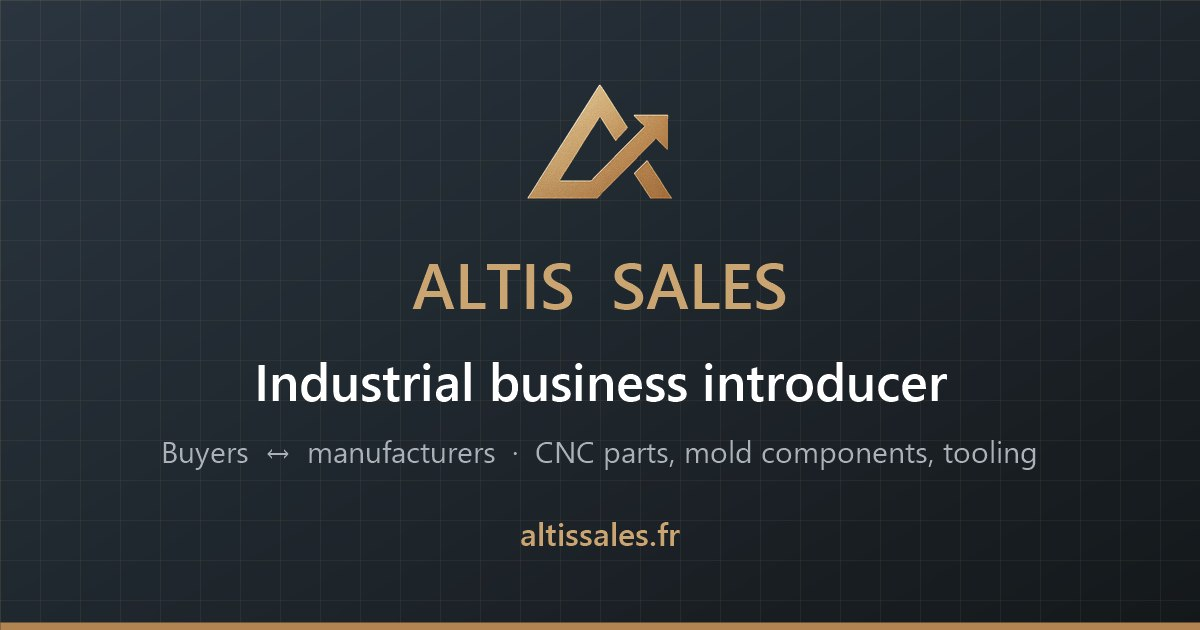
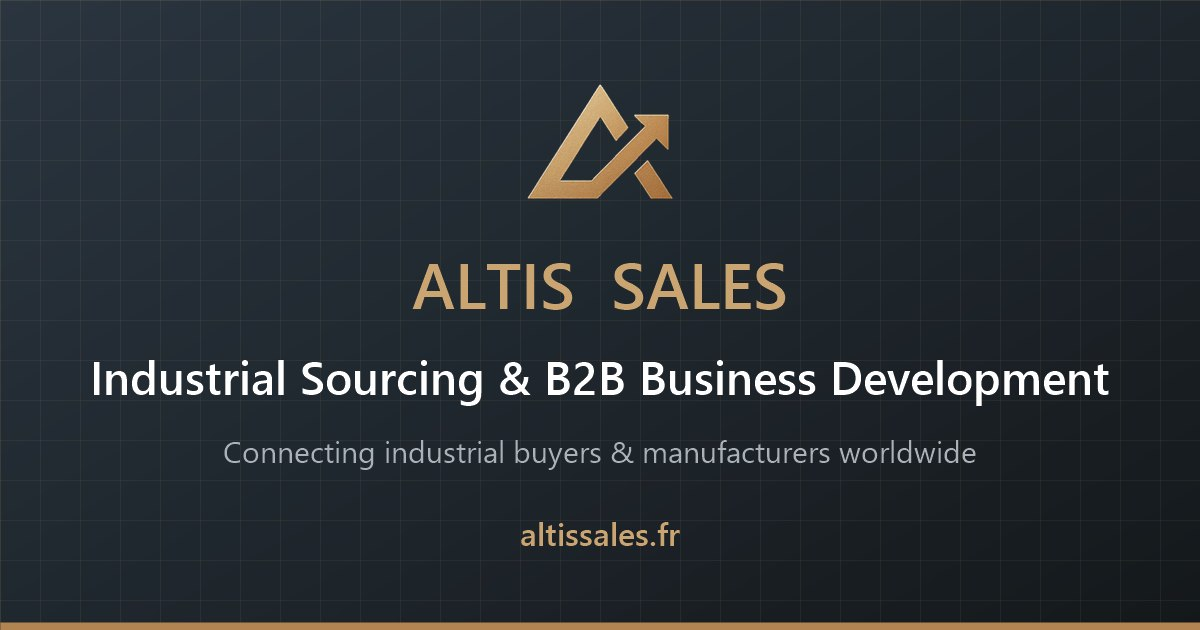
Positioning & SEO update (industrial sourcing & B2B business development), buyer/manufacturer view switch

diff --git a/index.html b/index.html
@@ -7,10 +7,10 @@
 <head>
   <meta charset="utf-8">
   <meta name="viewport" content="width=device-width, initial-scale=1">
-  <title>ALTIS SALES — Industrial business introducer: buyers and manufacturers of CNC parts, mold components, tooling</title>
-  <meta name="description" content="ALTIS SALES is an independent industrial business introducer. We connect European buyers with qualified manufacturers of CNC machined parts, mold components and tooling, and mediate until they agree.">
-  <meta property="og:title" content="ALTIS SALES — Connecting industrial buyers with the right manufacturers">
-  <meta property="og:description" content="Independent business introducer for CNC parts, mold components and tooling: we find, check and introduce manufacturers, then mediate until you agree.">
+  <title>ALTIS SALES | Industrial Sourcing &amp; B2B Business Development</title>
+  <meta name="description" content="ALTIS SALES connects industrial buyers with qualified manufacturers and helps suppliers develop business opportunities across Europe and beyond.">
+  <meta property="og:title" content="ALTIS SALES | Industrial Sourcing &amp; B2B Business Development">
+  <meta property="og:description" content="Independent B2B intermediary: industrial sourcing for buyers (CNC machining, precision manufacturing, mold components, tooling) and B2B business development for manufacturers in Europe and beyond.">
   <meta property="og:image" content="https://altissales.fr/assets/og-image.jpg">
   <meta property="og:image:width" content="1200">
   <meta property="og:image:height" content="630">
@@ -20,7 +20,7 @@
   <meta name="theme-color" content="#14181b">
   <link rel="icon" type="image/png" href="assets/logo-mark.png">
   <link rel="preload" href="assets/fonts/ibm-plex-sans-latin.woff2" as="font" type="font/woff2" crossorigin>
-  <link rel="stylesheet" href="assets/style.css?v=43">
+  <link rel="stylesheet" href="assets/style.css?v=46">
   <script>document.documentElement.classList.add("js");</script>
 </head>
 <body>
@@ -50,12 +50,12 @@
       <div class="hero-grid" aria-hidden="true"></div>
       <div class="hero-inner">
         <div class="hero-text">
-          <p class="kicker">Independent industrial business introducer</p>
-          <h1>We connect industrial buyers with the <span class="shine">right manufacturers</span></h1>
-          <p class="lead">CNC machined parts, mold components and tooling: we find and check the manufacturer, introduce you, and mediate until you agree. You then work directly together.</p>
+          <p class="kicker">Independent Industrial Sourcing &amp; B2B Business Development Partner</p>
+          <h1>Connecting Industrial Buyers &amp; <span class="shine">Manufacturers Worldwide</span></h1>
+          <p class="lead">Industrial sourcing for CNC machining, precision manufacturing, mold components and tooling: we find and check qualified manufacturers for buyers, and help suppliers find industrial buyers in Europe and beyond. You then work directly together.</p>
           <div class="cta">
-            <a href="#contact" class="btn js-quote" data-role="Buyer">I'm looking for a manufacturer</a>
-            <a href="#contact" class="btn btn-ghost js-quote" data-role="Manufacturer">I'm a manufacturer</a>
+            <a href="#contact" class="btn js-quote" data-role="Buyer">Find a manufacturer</a>
+            <a href="#contact" class="btn btn-ghost js-quote" data-role="Manufacturer">Find industrial buyers</a>
           </div>
           <ul class="trust">
             <li>Not a manufacturer, not a reseller</li>
@@ -95,8 +95,8 @@
 
     <div class="ticker" aria-label="What ALTIS SALES does">
       <ul class="ticker-track">
-        <li>Business introduction</li><li>Buyers ↔ manufacturers</li><li>Manufacturer search</li><li>Checked before any introduction</li>
-        <li>Second source</li><li>Mediation until you agree</li><li>Direct contracts between you</li>
+        <li>Industrial sourcing</li><li>Buyers ↔ manufacturers</li><li>Supplier sourcing</li><li>Checked before any introduction</li>
+        <li>Second source</li><li>B2B business development</li><li>European market entry</li><li>Mediation until you agree</li><li>Direct contracts between you</li>
         <li>Commission only on business brought</li><li>NDA on request</li><li>Independent</li><li>French &amp; English</li>
       </ul>
     </div>
@@ -109,23 +109,24 @@
           <svg class="icon icon-b" viewBox="0 0 48 48" aria-hidden="true"><path d="M20 6l12 6v14l-12 6-12-6V12Z"/><path d="M28 30l14 14"/></svg>
           <h3>For buyers</h3>
           <ul>
-            <li>Manufacturers matched to your parts, including a second source</li>
-            <li>Checked before any introduction</li>
+            <li>Supplier sourcing: manufacturers matched to your parts, including a second source</li>
+            <li>Checked CNC machining suppliers and tooling suppliers</li>
             <li>Help on drawings, quantities, tolerances and lead times</li>
             <li>Quotation and order directly with the manufacturer</li>
           </ul>
-          <a href="#contact" class="btn js-quote" data-role="Buyer">Describe your need</a>
+          <a href="#contact" class="btn js-quote" data-role="Buyer">Find a manufacturer</a>
         </article>
         <article class="side side-dark" data-reveal>
           <svg class="icon icon-b" viewBox="0 0 48 48" aria-hidden="true"><path d="M4 44V26l12-10v10l12-10v10l12-12v30Z"/><path d="M11 36h5M21 36h5M31 36h5"/></svg>
           <h3>For manufacturers</h3>
+          <p class="side-intro">We support manufacturers in developing long-term commercial relationships with industrial buyers through qualified business opportunities and ongoing sales coordination.</p>
           <ul>
-            <li>Your capabilities presented to European buyers</li>
-            <li>Qualified requests with drawings and key requirements</li>
-            <li>Support until the order is agreed</li>
+            <li>Industrial buyer acquisition and European market entry</li>
+            <li>Qualified RFQ opportunities with drawings and key requirements</li>
+            <li>Commercial relationship development, towards recurring business</li>
             <li>Commission agreed in advance, only on business we bring</li>
           </ul>
-          <a href="#contact" class="btn btn-ghost js-quote" data-role="Manufacturer">Present your company</a>
+          <a href="#contact" class="btn btn-ghost js-quote" data-role="Manufacturer">Find industrial buyers</a>
         </article>
       </div>
     </section>
@@ -141,7 +142,7 @@
         </div>
         <div class="field-panel" role="tabpanel" id="panel-cnc" aria-labelledby="tab-cnc">
           <h3>Precision CNC machined parts</h3>
-          <p>Milled and turned parts to drawing, from prototypes to series.</p>
+          <p>Precision manufacturing: milled and turned parts to drawing, from prototypes to series.</p>
           <div class="field-lists">
             <div><h4>Typical parts</h4><ul><li>Shafts, axles, pins</li><li>Housings, plates, brackets</li><li>Flanges, rings, bushings</li></ul></div>
             <div><h4>Processes &amp; materials</h4><ul><li>Milling 3–5 axes, turning</li><li>Aluminium, steel, stainless, brass, titanium</li><li>POM, PA, PEEK</li></ul></div>
@@ -176,6 +177,10 @@
     <section id="approach" class="section section-dark how">
       <p class="eyebrow" data-reveal>How it works</p>
       <h2 data-reveal>Three sides, one agreement</h2>
+      <div class="how-view" role="group" aria-label="Point of view" data-reveal>
+        <button type="button" class="how-view-btn" data-view="buyer" aria-pressed="true">I'm a buyer</button>
+        <button type="button" class="how-view-btn" data-view="maker" aria-pressed="false">I'm a manufacturer</button>
+      </div>
       <div class="how-diagram" data-reveal>
         <svg class="how-svg" viewBox="0 0 800 540" aria-hidden="true">
           <defs>
@@ -184,8 +189,8 @@
             </marker>
           </defs>
           <circle class="how-orbit" cx="400" cy="270" r="205"/>
-          <path class="how-link" data-step="1" d="M199.6 313 A205 205 0 0 1 300.4 90.8" marker-end="url(#how-head)" pathLength="1"/>
-          <path class="how-link" data-step="2" d="M499.6 90.8 A205 205 0 0 1 600.4 313" marker-end="url(#how-head)" pathLength="1"/>
+          <path class="how-link" data-step="1" d="M199.6 313 A205 205 0 0 1 300.4 90.8" data-buyer="M199.6 313 A205 205 0 0 1 300.4 90.8" data-maker="M600.4 313 A205 205 0 0 0 499.6 90.8" marker-end="url(#how-head)" pathLength="1"/>
+          <path class="how-link" data-step="2" d="M499.6 90.8 A205 205 0 0 1 600.4 313" data-buyer="M499.6 90.8 A205 205 0 0 1 600.4 313" data-maker="M300.4 90.8 A205 205 0 0 0 199.6 313" marker-end="url(#how-head)" pathLength="1"/>
           <path class="how-link" data-step="3" d="M400 172 L400 405" marker-end="url(#how-head)" pathLength="1"/>
           <path class="how-link" data-step="4" d="M537.5 422.1 A205 205 0 0 1 262.5 422.1" marker-start="url(#how-head)" marker-end="url(#how-head)" pathLength="1"/>
           <circle class="how-pulse" r="6" cx="-20" cy="-20"/>
@@ -212,10 +217,10 @@
         </div>
         <div class="how-steps" role="tablist" aria-label="Stages">
           <button type="button" class="how-step" role="tab" id="how-step-1" aria-selected="true" tabindex="0" data-step="1" style="--x:19.61%;--y:29.57%">
-            <b>01</b><span class="how-step-title">Request</span><span class="how-step-label">Your need</span>
+            <b>01</b><span class="how-step-title for-buyer">Request</span><span class="how-step-label for-buyer">Your need</span><span class="how-step-title for-maker">Presentation</span><span class="how-step-label for-maker">Your capabilities</span>
           </button>
           <button type="button" class="how-step" role="tab" id="how-step-2" aria-selected="false" tabindex="-1" data-step="2" style="--x:80.39%;--y:29.57%">
-            <b>02</b><span class="how-step-title">Selection</span><span class="how-step-label">Checked manufacturers</span>
+            <b>02</b><span class="how-step-title for-buyer">Selection</span><span class="how-step-label for-buyer">Checked manufacturers</span><span class="how-step-title for-maker">Buyer search</span><span class="how-step-label for-maker">Qualified buyers</span>
           </button>
           <button type="button" class="how-step" role="tab" id="how-step-3" aria-selected="false" tabindex="-1" data-step="3" style="--x:50.00%;--y:53.70%">
             <b>03</b><span class="how-step-title">Introduction</span>
@@ -245,8 +250,8 @@
       <div class="about">
         <div data-reveal>
           <p class="eyebrow">About ALTIS SALES</p>
-          <h2>An independent business introducer</h2>
-          <p>Based in France, tied to no manufacturer: for each request we suggest those that best fit the specification, quantities, budget and lead time.</p>
+          <h2>An independent B2B intermediary</h2>
+          <p>Based in France, ALTIS SALES is an independent industrial sourcing and B2B business development partner, tied to no manufacturer: for each request we suggest those that best fit the specification, quantities, budget and lead time.</p>
           <p><strong>We never buy, resell or invoice parts.</strong> Price, quality and delivery are agreed directly between buyer and manufacturer.</p>
           <figure class="role-photo"><img src="assets/photo-handshake.webp" alt="A buyer and a manufacturer shaking hands after agreeing" width="800" height="533" loading="lazy"></figure>
         </div>
@@ -292,8 +297,8 @@
           <p>PDF, DWG/DXF, STEP, IGES, STL, SolidWorks, photos or a sample. Large files via a transfer link.</p>
         </details>
         <details>
-          <summary>I'm a manufacturer: how do we work together?</summary>
-          <p>Present your capabilities with "I'm a manufacturer". If they match our buyers' needs, we agree on a commission before any introduction.</p>
+          <summary>I'm a manufacturer: can you help me find industrial buyers?</summary>
+          <p>Yes. Present your capabilities with "Find industrial buyers": we look for manufacturing business opportunities that match them, in Europe and internationally, and agree on a commission before any introduction.</p>
         </details>
       </div>
     </section>
@@ -301,7 +306,7 @@
     <section id="contact" class="section contact section-dark">
       <div class="contact-glow" aria-hidden="true"></div>
       <p class="eyebrow" data-reveal>Contact</p>
-      <h2 data-reveal>Looking for a manufacturer or European customers?</h2>
+      <h2 data-reveal>Looking for a manufacturer or industrial buyers?</h2>
       <p data-reveal>A few lines are enough. We reply quickly, with no obligation.</p>
       <div class="person" data-reveal>
         <div class="person-photo"><span aria-hidden="true">QB</span><img src="assets/photo-quentin.webp" alt="Quentin BRIOSCA" width="160" height="160" loading="lazy" onerror="this.remove()"></div>
@@ -313,8 +318,8 @@
         <button type="button" class="btn btn-ghost btn-linkedin js-linkedin"><svg class="icon" viewBox="0 0 24 24" aria-hidden="true"><path d="M16 8a6 6 0 0 1 6 6v7h-4v-7a2 2 0 0 0-2-2 2 2 0 0 0-2 2v7h-4v-7a6 6 0 0 1 6-6z"/><rect width="4" height="12" x="2" y="9"/><circle cx="4" cy="4" r="2"/></svg><span>Connect on LinkedIn</span></button>
       </div>
       <p class="contact-lines" data-reveal>
-        <a class="btn js-quote" href="#contact" data-role="Buyer">I'm looking for a manufacturer</a>
-        <a class="btn btn-ghost js-quote" href="#contact" data-role="Manufacturer">I'm a manufacturer</a>
+        <a class="btn js-quote" href="#contact" data-role="Buyer">Find a manufacturer</a>
+        <a class="btn btn-ghost js-quote" href="#contact" data-role="Manufacturer">Find industrial buyers</a>
         <button type="button" class="btn btn-ghost js-phone">Show phone number</button>
       </p>
     </section>
@@ -421,8 +426,8 @@
     </div>
   </dialog>
 
-  <script src="assets/motion.js?v=11"></script>
-  <script src="assets/i18n.js?v=10"></script>
+  <script src="assets/motion.js?v=12"></script>
+  <script src="assets/i18n.js?v=12"></script>
   <script src="assets/contact.js?v=8"></script>
 </body>
 </html>

diff --git a/assets/i18n.js b/assets/i18n.js
@@ -9,13 +9,12 @@
     "About": "À propos",
     "FAQ": "FAQ",
     "Contact us": "Nous contacter",
-    "Independent industrial business introducer": "Apporteur d'affaires industriel indépendant",
-    "We connect industrial buyers with the": "Nous mettons en relation les acheteurs industriels avec les",
-    "right manufacturers": "bons fabricants",
-    "CNC machined parts, mold components and tooling: we find and check the manufacturer, introduce you, and mediate until you agree. You then work directly together.":
-      "Pièces usinées CNC, composants de moules et outillages : nous trouvons et vérifions le fabricant, vous présentons l'un à l'autre et facilitons l'échange jusqu'à l'accord. Vous travaillez ensuite en direct.",
-    "I'm looking for a manufacturer": "Je cherche un fabricant",
-    "I'm a manufacturer": "Je suis fabricant",
+    "Independent Industrial Sourcing & B2B Business Development Partner": "Partenaire indépendant en sourcing industriel & développement commercial B2B",
+    "Connecting Industrial Buyers &": "Relier acheteurs industriels &",
+    "Manufacturers Worldwide": "fabricants du monde entier",
+    "Industrial sourcing for CNC machining, precision manufacturing, mold components and tooling: we find and check qualified manufacturers for buyers, and help suppliers find industrial buyers in Europe and beyond. You then work directly together.": "Sourcing industriel en usinage CNC, fabrication de précision, composants de moules et outillages : nous trouvons et vérifions des fabricants qualifiés pour les acheteurs, et aidons les fournisseurs à trouver des acheteurs industriels en Europe et au-delà. Vous travaillez ensuite en direct.",
+    "Find a manufacturer": "Trouver un fabricant",
+    "Find industrial buyers": "Trouver des acheteurs industriels",
     "Not a manufacturer, not a reseller": "Ni fabricant, ni revendeur",
     "Direct contract between you": "Contrat direct entre vous",
     "NDA on request": "Accord de confidentialité sur demande",
@@ -24,9 +23,9 @@
     "MANUFACTURERS": "FABRICANTS",
     "We find, check and introduce. You agree directly.": "Nous trouvons, vérifions et présentons. Vous vous accordez en direct.",
     // Bandeau
-    "Business introduction": "Apport d'affaires",
+    "Industrial sourcing": "Sourcing industriel",
     "Buyers ↔ manufacturers": "Acheteurs ↔ fabricants",
-    "Manufacturer search": "Recherche de fabricants",
+    "Supplier sourcing": "Recherche de fournisseurs",
     "Checked before any introduction": "Vérifiés avant toute mise en relation",
     "Second source": "Seconde source",
     "Mediation until you agree": "Médiation jusqu'à l'accord",
@@ -38,16 +37,14 @@
     "Two sides, one introducer": "Deux côtés, un seul interlocuteur",
     "What we do for each side": "Ce que nous faisons pour chacun",
     "For buyers": "Pour les acheteurs",
-    "Manufacturers matched to your parts, including a second source": "Des fabricants adaptés à vos pièces, y compris une seconde source",
+    "Supplier sourcing: manufacturers matched to your parts, including a second source": "Recherche de fournisseurs : des fabricants adaptés à vos pièces, y compris une seconde source",
     "Help on drawings, quantities, tolerances and lead times": "Aide sur les plans, quantités, tolérances et délais",
     "Quotation and order directly with the manufacturer": "Devis et commande en direct avec le fabricant",
-    "Describe your need": "Décrire mon besoin",
     "For manufacturers": "Pour les fabricants",
-    "Your capabilities presented to European buyers": "Vos capacités présentées à des acheteurs européens",
-    "Qualified requests with drawings and key requirements": "Des demandes qualifiées, avec plans et exigences clés",
-    "Support until the order is agreed": "Un accompagnement jusqu'à la commande",
+    "Industrial buyer acquisition and European market entry": "Acquisition d'acheteurs industriels et accès au marché européen",
+    "Qualified RFQ opportunities with drawings and key requirements": "Demandes de devis (RFQ) qualifiées, avec plans et exigences clés",
+    "Commercial relationship development, towards recurring business": "Développement de la relation commerciale, vers des affaires récurrentes",
     "Commission agreed in advance, only on business we bring": "Commission convenue à l'avance, uniquement sur les affaires apportées",
-    "Present your company": "Présenter mon entreprise",
     // Domaines
     "Fields we cover": "Nos domaines",
     "Click a field to see what's inside": "Cliquez sur un domaine pour voir le détail",
@@ -55,7 +52,7 @@
     "Mold components": "Composants de moules",
     "Tooling & special parts": "Outillages & pièces spéciales",
     "Precision CNC machined parts": "Pièces usinées CNC de précision",
-    "Milled and turned parts to drawing, from prototypes to series.": "Pièces fraisées et tournées sur plan, du prototype à la série.",
+    "Precision manufacturing: milled and turned parts to drawing, from prototypes to series.": "Fabrication de précision : pièces fraisées et tournées sur plan, du prototype à la série.",
     "Typical parts": "Pièces types",
     "Shafts, axles, pins": "Arbres, axes, goupilles",
     "Housings, plates, brackets": "Carters, plaques, supports",
@@ -131,9 +128,8 @@
     "Send my request": "Envoyer ma demande",
     // À propos
     "About ALTIS SALES": "À propos d'ALTIS SALES",
-    "An independent business introducer": "Un apporteur d'affaires indépendant",
-    "Based in France, tied to no manufacturer: for each request we suggest those that best fit the specification, quantities, budget and lead time.":
-      "Basés en France et liés à aucun fabricant : pour chaque demande, nous proposons ceux qui correspondent le mieux au cahier des charges, aux quantités, au budget et au délai.",
+    "An independent B2B intermediary": "Un intermédiaire B2B indépendant",
+    "Based in France, ALTIS SALES is an independent industrial sourcing and B2B business development partner, tied to no manufacturer: for each request we suggest those that best fit the specification, quantities, budget and lead time.": "Basée en France, ALTIS SALES est un partenaire indépendant en sourcing industriel et développement commercial B2B, lié à aucun fabricant : pour chaque demande, nous proposons ceux qui correspondent le mieux au cahier des charges, aux quantités, au budget et au délai.",
     "We never buy, resell or invoice parts.": "Nous n'achetons, ne revendons et ne facturons jamais de pièces.",
     "Price, quality and delivery are agreed directly between buyer and manufacturer.": "Prix, qualité et livraison se décident directement entre acheteur et fabricant.",
     "We work with": "Nous travaillons avec",
@@ -156,11 +152,11 @@
     "Yes. Shared only with the manufacturers we introduce, under NDA if you wish.": "Oui. Ils ne sont transmis qu'aux fabricants présentés, sous accord de confidentialité si vous le souhaitez.",
     "Which files can I send?": "Quels fichiers puis-je envoyer ?",
     "PDF, DWG/DXF, STEP, IGES, STL, SolidWorks, photos or a sample. Large files via a transfer link.": "PDF, DWG/DXF, STEP, IGES, STL, SolidWorks, photos ou un échantillon. Les gros fichiers via un lien de transfert.",
-    "I'm a manufacturer: how do we work together?": "Je suis fabricant : comment travailler ensemble ?",
-    "Present your capabilities with \"I'm a manufacturer\". If they match our buyers' needs, we agree on a commission before any introduction.": "Présentez vos capacités avec « Je suis fabricant ». Si elles correspondent aux besoins de nos acheteurs, nous convenons d'une commission avant toute mise en relation.",
+    "I'm a manufacturer: can you help me find industrial buyers?": "Je suis fabricant : pouvez-vous m'aider à trouver des acheteurs industriels ?",
+    "Yes. Present your capabilities with \"Find industrial buyers\": we look for manufacturing business opportunities that match them, in Europe and internationally, and agree on a commission before any introduction.": "Oui. Présentez vos capacités avec « Trouver des acheteurs industriels » : nous cherchons des opportunités d'affaires qui y correspondent, en Europe et à l'international, et convenons d'une commission avant toute mise en relation.",
     // Contact
     "Contact": "Contact",
-    "Looking for a manufacturer or European customers?": "Vous cherchez un fabricant ou des clients en Europe ?",
+    "Looking for a manufacturer or industrial buyers?": "Vous cherchez un fabricant ou des acheteurs industriels ?",
     "A few lines are enough. We reply quickly, with no obligation.": "Quelques lignes suffisent. Réponse rapide, sans engagement.",
     "Founder, ALTIS SALES": "Fondateur, ALTIS SALES",
     "I personally handle every request.": "Je traite personnellement chaque demande.",
@@ -196,7 +192,17 @@
     "A quick check against bots, then the link to the profile appears.": "Une vérification rapide contre les robots, puis le lien vers le profil s'affiche.",
     "Open the LinkedIn profile": "Ouvrir le profil LinkedIn",
     "LinkedIn": "LinkedIn",
+    "B2B business development": "Développement commercial B2B",
+    "European market entry": "Accès au marché européen",
+    "Checked CNC machining suppliers and tooling suppliers": "Fournisseurs en usinage CNC et en outillage vérifiés",
+    "We support manufacturers in developing long-term commercial relationships with industrial buyers through qualified business opportunities and ongoing sales coordination.": "Nous accompagnons les fabricants dans le développement de relations commerciales durables avec des acheteurs industriels, grâce à des opportunités d'affaires qualifiées et une coordination commerciale suivie.",
+    "I'm a buyer": "Je suis acheteur",
+    "Presentation": "Présentation",
+    "I'm a manufacturer": "Je suis fabricant",
+    "Buyer search": "Recherche d'acheteurs",
+    "Qualified buyers": "Acheteurs qualifiés",
     // Attributs (aria-label, alt, title)
+    "Point of view": "Point de vue",
     "Close": "Fermer",
     "Previous stage": "Étape précédente",
     "Next stage": "Étape suivante",
@@ -212,8 +218,8 @@
       description: document.querySelector("meta[name=description]")?.content ?? ""
     },
     fr: {
-      title: "ALTIS SALES — Apporteur d'affaires industriel : acheteurs et fabricants de pièces CNC, composants de moules, outillages",
-      description: "ALTIS SALES, apporteur d'affaires industriel indépendant : nous mettons en relation les acheteurs européens avec des fabricants qualifiés de pièces usinées CNC, composants de moules et outillages, et facilitons l'échange jusqu'à l'accord."
+      title: "ALTIS SALES | Sourcing industriel & développement commercial B2B",
+      description: "ALTIS SALES met en relation les acheteurs industriels avec des fabricants qualifiés et aide les fournisseurs à développer leurs opportunités commerciales en Europe et au-delà."
     }
   };
 

diff --git a/assets/style.css b/assets/style.css
@@ -678,3 +678,24 @@ html[lang="fr"] .legal-notice .lang-en, html:not([lang="fr"]) .legal-notice .lan
 .how::after { display: none; }
 .how-orbit { fill: none; stroke: rgba(203, 165, 113, 0.12); stroke-width: 1; stroke-dasharray: 2 8; }
 .how-step-title, .how-step-label { white-space: nowrap; }
+
+/* "How it works" : bouton vue acheteur / vue fabricant */
+.how-view { display: flex; justify-content: center; gap: 0; width: max-content; margin: 0 auto 6px; padding: 4px; border: 1px solid var(--gold); border-radius: 999px; background: rgba(20, 24, 27, 0.9); }
+.how-view-btn { padding: 8px 18px; border: 0; border-radius: 999px; background: transparent; color: #aab2b8; font: 600 0.9rem "IBM Plex Sans", sans-serif; cursor: pointer; transition: background 0.25s, color 0.25s; }
+.how-view-btn[aria-pressed="true"] { background: linear-gradient(135deg, var(--gold-light), var(--gold)); color: var(--navy); }
+.how-view-btn:focus-visible { outline: 2px solid var(--gold-light); outline-offset: 2px; }
+.how-step .for-maker { display: none; }
+.how-diagram.is-maker-view .how-step .for-buyer { display: none; }
+.how-diagram.is-maker-view .how-step .for-maker { display: block; }
+.how-diagram.is-maker-view #how-step-1 { --x: 80.39% !important; }
+.how-diagram.is-maker-view #how-step-2 { --x: 19.61% !important; }
+.how-step { transition: border-color 0.25s, background 0.25s, transform 0.25s, left 0.5s cubic-bezier(0.2, 0.7, 0.2, 1); }
+.how-link.is-redraw { stroke-dashoffset: 1; animation: draw 0.7s ease-out forwards !important; }
+@media (max-width: 760px) { .how-view-btn { padding: 6px 12px; font-size: 0.78rem; } }
+.how-view { margin: 4px auto 64px; }
+@media (max-width: 760px) { .how-view { margin-bottom: 34px; } }
+@media (max-width: 760px) {
+  .how-diagram.is-maker-view .how-step .how-step-label.for-maker { display: none; }
+  .how-diagram.is-maker-view #how-step-2 { --x: 22% !important; }
+  .how-diagram.is-maker-view #how-step-1 { --x: 79% !important; }
+}

diff --git a/assets/motion.js b/assets/motion.js
@@ -145,6 +145,23 @@
       });
     });
     select(1, false);
+    // Vue acheteur / vue fabricant : les flèches du haut changent de sens, les étapes 01 et 02 changent de côté.
+    const viewButtons = [...document.querySelectorAll(".how-view-btn")];
+    viewButtons.forEach((button) => button.addEventListener("click", () => {
+      const view = button.dataset.view;
+      viewButtons.forEach((other) => other.setAttribute("aria-pressed", String(other === button)));
+      how.classList.toggle("is-maker-view", view === "maker");
+      links.forEach((link) => {
+        if (link.dataset[view]) {
+          link.setAttribute("d", link.dataset[view]);
+          link.classList.remove("is-redraw");
+          // Relance l'animation de tracé de la flèche.
+          link.getBoundingClientRect();
+          link.classList.add("is-redraw");
+        }
+      });
+      select(Number(how.dataset.active || 1), false);
+    }));
     // Bulles d'info des icônes : survol ou focus (CSS) ; au toucher, un appui ouvre la bulle, un autre la ferme.
     const hits = [...how.querySelectorAll(".how-hit")];
     hits.forEach((hit) => hit.addEventListener("click", () => {
